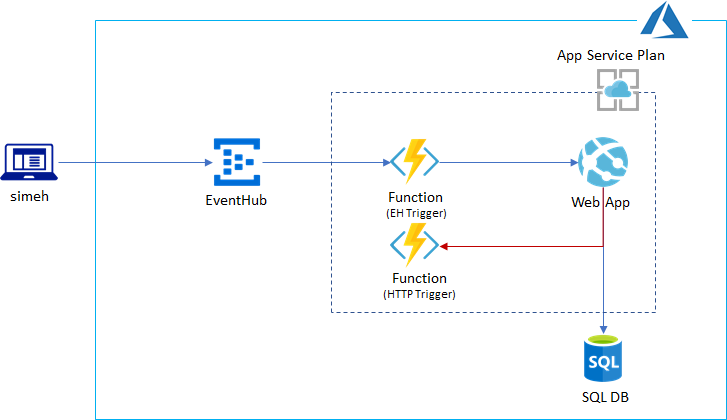
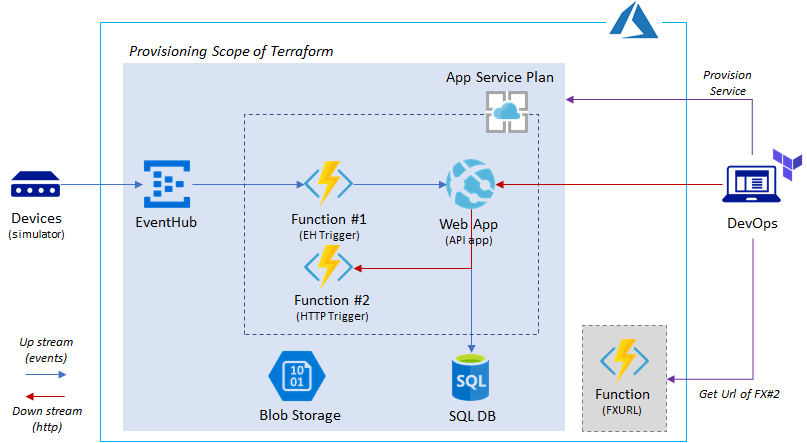
update doc

diff --git a/Doc.md b/Doc.md
@@ -12,59 +12,61 @@ terraform init
 terraform apply
 ```
 
-## Configure and deploy manually
+> `fxurl` function app retrieves _function url_ of a function app without accessing Azure Portal.
 
-1. Configuring MS SQL
+## Setup and deploy manually
+
+1. Setup database (MS SQL)
 
     - add your IP in firewall rules
     - run following `sqlcmd`
 
         ```
-        sqlcmd -S <sqlsvr.database.windows.net> -d <dbname>  -U <username> -P <password> -Q "create table events (id bigint identity primary key, message nvarchar(max), timecreated datetime)"
+        sqlcmd -S <sqlsvr.database.windows.net> -d <dbname>  -U <username> -P <password> -Q "drop table events; create table events (id bigint identity primary key, message nvarchar(max), timecreated datetime)"
         ```
 
 2. Deploying applications manually
 
- 
-> use _out credentials_ for updating `username` and `password`
+    > update `username` and `password` from terraform _credentials output_ 
 
-```
-.\zipdeploy.ps1 -username '<fxeh username>' -password <fxeh password> -appname <fxeh name> -filepath .\assets\fxeh.zip
+    ```
+    .\zipdeploy.ps1 -username '<fxeh username>' -password <fxeh password> -appname <fxeh name> -filepath .\assets\fxeh.zip
 
-.\zipdeploy.ps1 -username '<webapp username>' -password <webapp password> -appname <webapp name> -filepath .\assets\apiapp.zip
-```
+    .\zipdeploy.ps1 -username '<webapp username>' -password <webapp password> -appname <webapp name> -filepath .\assets\apiapp.zip
+    ```
 
 3. Build applications
 
-App packages are provided in [assets](./assests) directory. However, you can build applications in case you have modified application source.
+    App packages are provided in [assets](./assests) directory. However, you can build applications in case you have modified application source.
 
-- api app
-    ```
-    cd src\apiapp
-    dotnet publish -c Release -o out apiapp.csproj
-    Compress-Archive -Path out\* -DestinationPath ..\..\assets\apiapp.zip -Force
-    ```
-
-- function app #1 (eh)
-    > you need to install extension in your function app
-
-    ```
-    cd src
-    dotnet build fxeh\extensions.csproj -o fxeh\bin --no-incremental
-    Remove-Item fxeh\obj
-    Compress-Archive -Path fxeh\* -DestinationPath ..\assets\fxeh.zip -Force
-    ```
-
-- function app #2 (http)
-    ```
-    cd src
-    Compress-Archive -Path fxapp\* -DestinationPath ..\assets\fxapp.zip -Force
+    - api app
         ```
+        cd src\apiapp
+        dotnet publish -c Release -o out apiapp.csproj
+        Compress-Archive -Path out\* -DestinationPath ..\..\assets\apiapp.zip -Force
+        ```
+
+    - function app #1 (eh)
+        > you need to install extension in your function app, see [documentation](https://docs.microsoft.com/en-us/azure/azure-functions/install-update-binding-extensions-manual)
+
+        ```
+        cd src
+        dotnet build fxeh\extensions.csproj -o fxeh\bin --no-incremental
+        Remove-Item fxeh\obj
+        Compress-Archive -Path fxeh\* -DestinationPath ..\assets\fxeh.zip -Force
+        ```
+
+    - function app #2 (http)
+        ```
+        cd src
+        Compress-Archive -Path fxapp\* -DestinationPath ..\assets\fxapp.zip -Force
+        ```
+
 ## Test
 
 1. Test event (upstream)
 
-Go to [src.ehsim](./src/ehsim) and update `connectionString` of event hub that you just provisioned.
+Go to [src/simeh](./src/simeh) and update `connectionString` of event hub that you just provisioned.
 
 Run event simulator.
 
@@ -85,20 +87,25 @@ curl.exe -X GET https://<sitename>.azurewebsites.net/api/events
 
 ```
 
-## Tips & Troubleshooting
+## Tips
 
 There are several ways to work around if terraform does not support Azure features.
 
-- Using ARM template: Deploying webapp or functions app
-- local_exec: Run commands locally. e.g., webapp zip deployment
+- Using _ARM template_ for deploying webapp or functions app
+- Using terraform `local_exec` for running commands locally. _e.g., sqlcmd, webapp zip deployment_
+
+## Troubleshooting
+
+Sometimes, provisioning takes several minutes and it's still running. In that case, cancel the task and run it again. 
 
 ## References
 
 ### Terraform
+
 - Terraform Azure provider: https://www.terraform.io/docs/providers/azurerm/index.html
 - Template deployment:https://www.terraform.io/docs/providers/azurerm/r/template_deployment.html
-- `file` function:https://www.terraform.io/docs/configuration/functions/file.html
-- HTTP data: https://www.terraform.io/docs/providers/http/data_source.html
+- `file` function: https://www.terraform.io/docs/configuration/functions/file.html
+- HTTP data source: https://www.terraform.io/docs/providers/http/data_source.html
 
 ### Azure App Svc/Fx
 

diff --git a/README.md b/README.md
@@ -2,7 +2,7 @@
 
 > Tested for terraform 0.12.18
 
-One of challenges for provisioning PaaS services is deploying application since `terraform` does not provide native way. This sample terraform shows how to deploy and configure webapps or function apps using `terraform`.
+One of challenges for provisioning PaaS services is deploying applications since `terraform` does not provide native way of deploying apps (e.g, Web App, Function App deployment). This sample terraform shows how to deploy and configure webapps or function apps using `terraform`.
 
 This terraform sample create a following Azure PaaS services.
 
@@ -13,17 +13,18 @@ The sample does following:
 1. Provision PaaS services
     - Event Hub
     - MS SQL
+    - Blob Storage (for Function App)
     - App Service Plan
     - Function App #1 (Event Hub Trigger)
     - Function App #2 (Http Trigger)
         Installing Function using _ARM template deployment_
     - Web App
-2. Configuring MS SQL using _sqlcmd_
-3. Building and installing app using _zip deployment_
+2. Setup database using _sqlcmd_
+3. Installing apps using _zip deployment_
     - Function App #1
     - Web App
 
-Please refer additional [documenentation](Doc.md) for how to run a sample terraform and test. 
+Please refer additional [documentation](Doc.md) for how to run and test this sample. 
 
 
 
